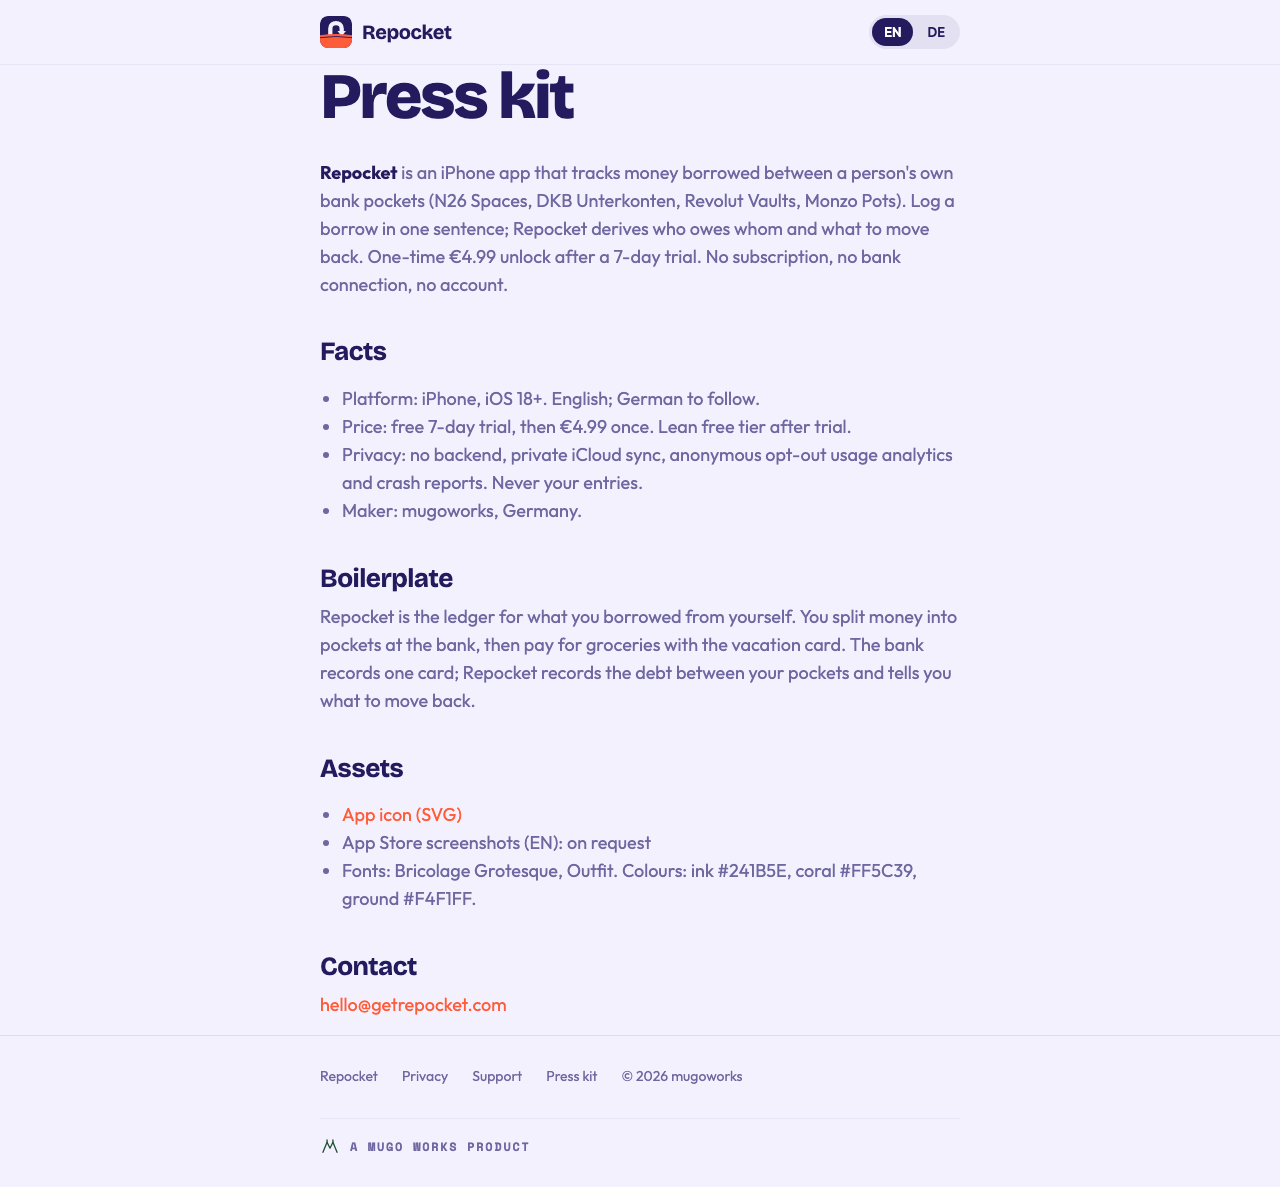
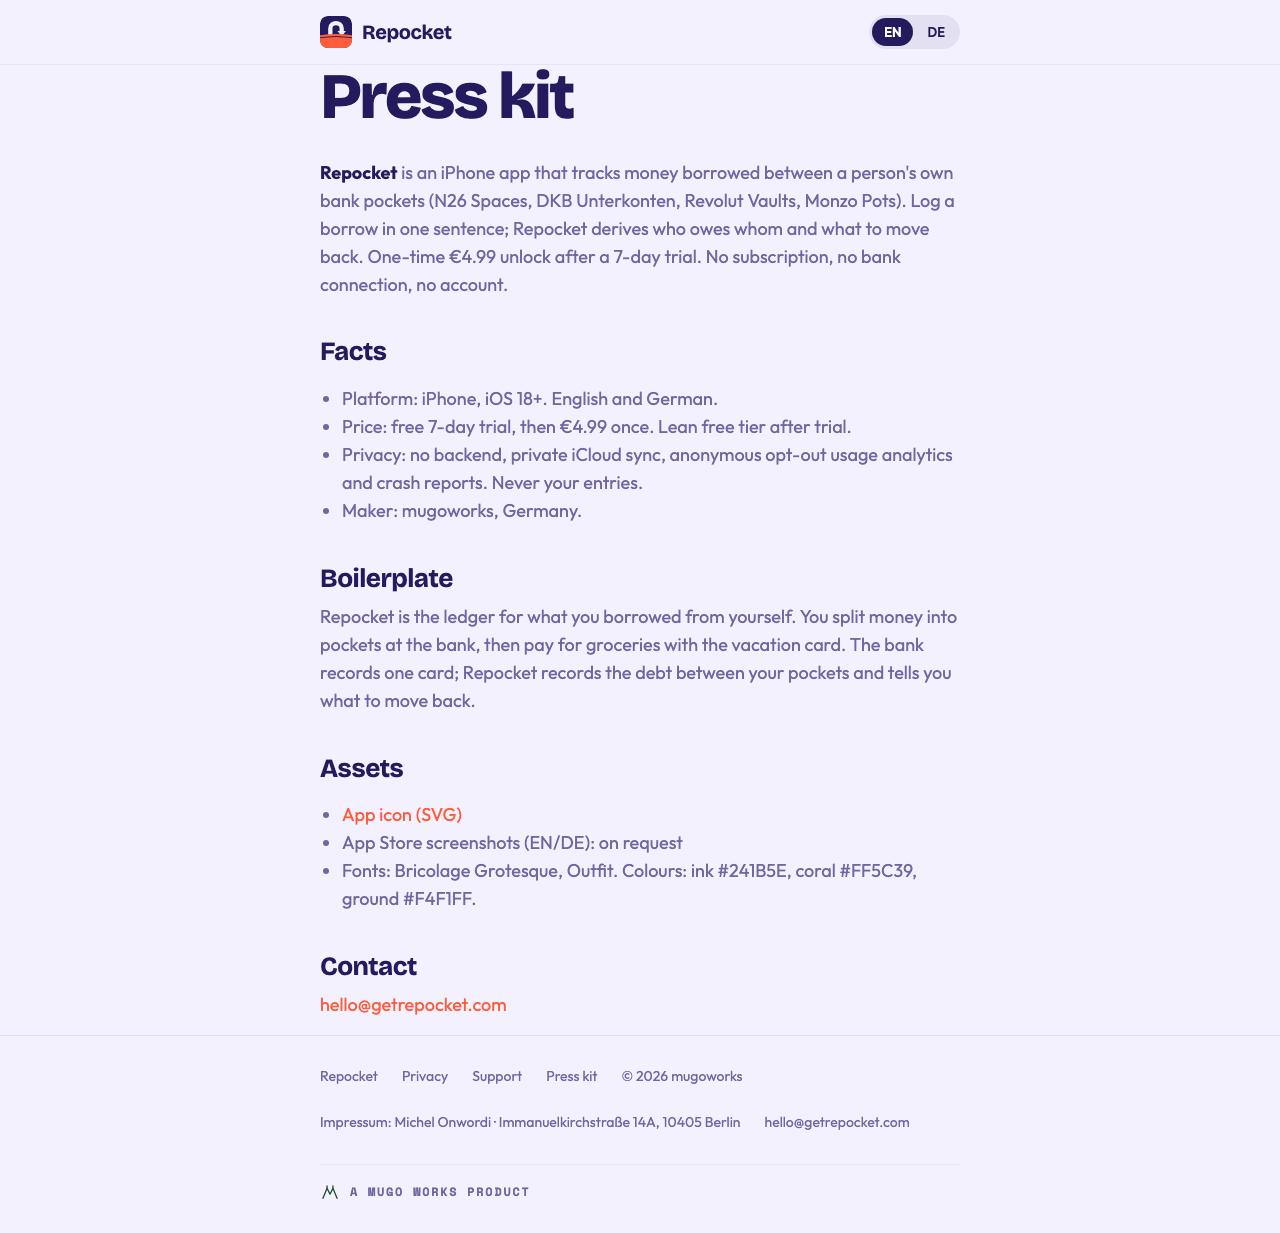
fix(site): German in-app labels, EN and DE facts, Impressum and controller [repocket-site-b42]
Bead: repocket-site-b42

Changed region(s): [[0.25, 0.2805, 0.75, 0.9351], [0.25, 0.0, 0.75, 0.2494]]

diff --git a/privacy.html b/privacy.html
@@ -21,7 +21,7 @@
 <h2>Siri, Shortcuts and widgets</h2><p>Run on-device. Spoken phrases are handled by iOS; Repocket receives only the intent and answers from local data.</p>
 <h2>Export and deletion</h2><p>Export all data as CSV or JSON from Settings. "Delete all data" removes every pocket and entry, and the app's trial and intro records, from your device and your iCloud. Only your currency choice stays.</p>
 <h2>This website</h2><p>The waitlist form on this site sends your email address, together with the page that referred you and any campaign tags in the link, to Web3Forms, a form service that forwards it to us by email. We use it only to tell you when Repocket launches and delete it on request. The site is hosted on GitHub Pages, which may log visitors' IP addresses for security. The site sets no cookies and runs no analytics.</p>
-<h2>Contact</h2><p>Questions: <a href="mailto:hello@getrepocket.com">hello@getrepocket.com</a>. mugoworks, Germany.</p></div><div data-l="de"><h1>Datenschutzerklärung</h1><p><small>Stand: September 2026</small></p>
+<h2>Contact</h2><p>Questions: <a href="mailto:hello@getrepocket.com">hello@getrepocket.com</a>. Responsible for this app and this site: Michel Onwordi (mugoworks), Immanuelkirchstraße 14A, 10405 Berlin, Germany.</p></div><div data-l="de"><h1>Datenschutzerklärung</h1><p><small>Stand: September 2026</small></p>
 <p><b>Kurzfassung.</b> Repocket hat kein Konto und keinen eigenen Server. Deine Einträge liegen auf deinem iPhone und, wenn aktiviert, in deiner privaten iCloud, wo wir sie nicht sehen können. Zwei Arten von Daten verlassen dein Gerät: eine anonyme Nutzungsanalyse, die du in den App-Einstellungen abschalten kannst, und Absturz- und Leistungsberichte, mit denen wir Fehler beheben. Keine davon enthält je deine Beträge, Taschennamen oder Notizen.</p>
 <h2>Was Repocket speichert</h2><p>Taschennamen, Einträge (Datum, Betrag, zwei Taschennamen, optionale Notiz) und ein paar App-Einstellungen: deine Währung, welche Taschen in der Gratis-Stufe aktiv sind, ob du die Einführung gesehen hast und wann die App zuletzt um eine Bewertung gebeten hat. Dazu das Datum der Erstinstallation (für die 7-tägige Testphase). Sonst nichts. Die unten beschriebenen Nutzungssignale und Absturzberichte werden getrennt gesendet und enthalten nichts davon.</p>
 <h2>Wo es gespeichert wird</h2><p>Auf deinem Gerät. Mit iCloud in deiner privaten CloudKit-Datenbank, von Apple verschlüsselt und an deinen Apple Account gebunden. mugoworks betreibt kein Backend und hat keinen Zugriff.</p>
@@ -30,8 +30,8 @@
 <h2>Absturz- und Leistungsberichte</h2><p>Repocket und seine Widgets melden Abstürze und Leistungsprobleme an <a href="https://sentry.io">Sentry</a>, einen Dienst zur Fehlerüberwachung der Functional Software, Inc., der die Daten von Repocket auf Servern in der EU verarbeitet. Jede Sitzung sendet außerdem einen kurzen Start- und Endhinweis ohne Inhalt, damit wir sehen, wie oft die App abstürzt. Ein Absturzbericht enthält die technischen Angaben, die wir zum Finden des Fehlers brauchen: den Stacktrace, dein Gerätemodell, die iOS- und App-Version und den Zeitpunkt. Bei etwa jeder zehnten Sitzung sendet die App außerdem Leistungsdaten, etwa wie lange ein Bildschirm zum Laden gebraucht hat. Die Berichte enthalten nie deine Beträge, Taschennamen oder Notizen, keine Werbe-ID und werden nicht genutzt, um ein Profil von dir zu bilden. Sentry ist so eingestellt, dass keine IP-Adressen gespeichert werden.</p>
 <h2>Käufe</h2><p>Der einmalige Kauf läuft über Apple (StoreKit). Wir erhalten keine personenbezogenen Daten aus dem Kauf.</p>
 <h2>Siri, Kurzbefehle und Widgets</h2><p>Laufen auf dem Gerät. Gesprochene Sätze verarbeitet iOS; Repocket erhält nur die Absicht und antwortet aus lokalen Daten.</p>
-<h2>Export und Löschen</h2><p>Exportiere alle Daten als CSV oder JSON unter Settings › Export. „Delete all data“ entfernt jede Tasche und jeden Eintrag sowie die Testphasen- und Einführungsdaten der App von deinem Gerät und aus deiner iCloud. Nur deine Währungswahl bleibt.</p>
+<h2>Export und Löschen</h2><p>Exportiere alle Daten als CSV oder JSON unter Einstellungen › Exportieren. „Alle Daten löschen“ entfernt jede Tasche und jeden Eintrag sowie die Testphasen- und Einführungsdaten der App von deinem Gerät und aus deiner iCloud. Nur deine Währungswahl bleibt.</p>
 <h2>Diese Website</h2><p>Das Wartelisten-Formular dieser Website sendet deine E-Mail-Adresse zusammen mit der Seite, von der du kamst, und eventuellen Kampagnen-Kennungen im Link an Web3Forms, einen Formulardienst, der sie per E-Mail an uns weiterleitet. Wir nutzen sie nur, um dir den Start von Repocket mitzuteilen, und löschen sie auf Wunsch. Die Website wird über GitHub Pages bereitgestellt, das aus Sicherheitsgründen IP-Adressen von Besuchern protokollieren kann. Die Website setzt keine Cookies und nutzt keine Analyse.</p>
-<h2>Kontakt</h2><p>Fragen: <a href="mailto:hello@getrepocket.com">hello@getrepocket.com</a>. mugoworks, Deutschland.</p></div></main>
-<footer><div class="wrap"><a href="index.html">Repocket</a><a href="privacy.html"><span data-l="en">Privacy</span><span data-l="de">Datenschutz</span></a><a href="support.html">Support</a><a href="press.html"><span data-l="en">Press kit</span><span data-l="de">Pressematerial</span></a><span>© 2026 mugoworks</span><div class="mugo-credit-row"><a class="mugo-credit" href="https://mugoworks.com"><img src="assets/mark-on-light.svg" width="20" height="20" alt="mugo works mark"><span>A MUGO WORKS PRODUCT</span></a></div></div></footer>
+<h2>Kontakt</h2><p>Fragen: <a href="mailto:hello@getrepocket.com">hello@getrepocket.com</a>. Verantwortlich für diese App und diese Website: Michel Onwordi (mugoworks), Immanuelkirchstraße 14A, 10405 Berlin, Deutschland.</p></div></main>
+<footer><div class="wrap"><a href="index.html">Repocket</a><a href="privacy.html"><span data-l="en">Privacy</span><span data-l="de">Datenschutz</span></a><a href="support.html">Support</a><a href="press.html"><span data-l="en">Press kit</span><span data-l="de">Pressematerial</span></a><span>© 2026 mugoworks</span><span>Impressum: Michel Onwordi · Immanuelkirchstraße 14A, 10405 Berlin</span><a href="mailto:hello@getrepocket.com">hello@getrepocket.com</a><div class="mugo-credit-row"><a class="mugo-credit" href="https://mugoworks.com"><img src="assets/mark-on-light.svg" width="20" height="20" alt="mugo works mark"><span>A MUGO WORKS PRODUCT</span></a></div></div></footer>
 <script>(function(){var h=document.documentElement,s=null;try{s=localStorage.getItem('rp-lang')}catch(e){}function set(l){h.setAttribute('data-lang',l);h.lang=l;document.querySelectorAll('.lang button').forEach(function(b){b.setAttribute('aria-pressed',String(b.dataset.set===l))});try{localStorage.setItem('rp-lang',l)}catch(e){}}set(s||((navigator.language||'').slice(0,2)==='de'?'de':'en'));document.querySelectorAll('.lang button').forEach(function(b){b.addEventListener('click',function(){set(b.dataset.set)})})})();</script></body></html>

diff --git a/press.html b/press.html
@@ -11,13 +11,13 @@
 .mugo-credit-row{width:100%;display:flex;padding-top:18px;margin-top:6px;border-top:1px solid rgba(36,27,94,.06)}</style></head><body>
 <nav><div class="wrap"><a class="brand" href="index.html"><img src="assets/mark.svg" alt="">Repocket</a><div class="lang" role="group" aria-label="Language"><button data-set="en" aria-pressed="true">EN</button><button data-set="de" aria-pressed="false">DE</button></div></div></nav>
 <main class="wrap"><div data-l="en"><h1>Press kit</h1><p><b>Repocket</b> is an iPhone app that tracks money borrowed between a person's own bank pockets (N26 Spaces, DKB Unterkonten, Revolut Vaults, Monzo Pots). Log a borrow in one sentence; Repocket derives who owes whom and what to move back. One-time €4.99 unlock after a 7-day trial. No subscription, no bank connection, no account.</p>
-<h2>Facts</h2><ul><li>Platform: iPhone, iOS 18+. English; German to follow.</li><li>Price: free 7-day trial, then €4.99 once. Lean free tier after trial.</li><li>Privacy: no backend, private iCloud sync, anonymous opt-out usage analytics and crash reports. Never your entries.</li><li>Maker: mugoworks, Germany.</li></ul>
+<h2>Facts</h2><ul><li>Platform: iPhone, iOS 18+. English and German.</li><li>Price: free 7-day trial, then €4.99 once. Lean free tier after trial.</li><li>Privacy: no backend, private iCloud sync, anonymous opt-out usage analytics and crash reports. Never your entries.</li><li>Maker: mugoworks, Germany.</li></ul>
 <h2>Boilerplate</h2><p>Repocket is the ledger for what you borrowed from yourself. You split money into pockets at the bank, then pay for groceries with the vacation card. The bank records one card; Repocket records the debt between your pockets and tells you what to move back.</p>
-<h2>Assets</h2><ul><li><a href="assets/mark.svg">App icon (SVG)</a></li><li>App Store screenshots (EN): on request</li><li>Fonts: Bricolage Grotesque, Outfit. Colours: ink #241B5E, coral #FF5C39, ground #F4F1FF.</li></ul>
+<h2>Assets</h2><ul><li><a href="assets/mark.svg">App icon (SVG)</a></li><li>App Store screenshots (EN/DE): on request</li><li>Fonts: Bricolage Grotesque, Outfit. Colours: ink #241B5E, coral #FF5C39, ground #F4F1FF.</li></ul>
 <h2>Contact</h2><p><a href="mailto:hello@getrepocket.com">hello@getrepocket.com</a></p></div><div data-l="de"><h1>Pressematerial</h1><p><b>Repocket</b> ist eine iPhone-App, die Geld verfolgt, das zwischen den eigenen Bank-Taschen geliehen wurde (N26 Spaces, DKB Unterkonten, Revolut Vaults, C24 Pockets). Eine Leihe in einem Satz eintragen; Repocket leitet ab, wer wem was schuldet und was zurück muss. Einmaliger Kauf für 4,99 € nach 7 Tagen Testphase. Kein Abo, keine Bankverbindung, kein Konto.</p>
-<h2>Fakten</h2><ul><li>Plattform: iPhone, iOS 18+. Englisch; Deutsch folgt.</li><li>Preis: 7 Tage gratis, dann einmal 4,99 €. Schlanke Gratis-Stufe danach.</li><li>Datenschutz: kein Backend, private iCloud-Synchronisation, anonyme, abschaltbare Nutzungsanalyse und Absturzberichte. Nie deine Einträge.</li><li>Hersteller: mugoworks, Deutschland.</li></ul>
+<h2>Fakten</h2><ul><li>Plattform: iPhone, iOS 18+. Deutsch und Englisch.</li><li>Preis: 7 Tage gratis, dann einmal 4,99 €. Schlanke Gratis-Stufe danach.</li><li>Datenschutz: kein Backend, private iCloud-Synchronisation, anonyme, abschaltbare Nutzungsanalyse und Absturzberichte. Nie deine Einträge.</li><li>Hersteller: mugoworks, Deutschland.</li></ul>
 <h2>Boilerplate</h2><p>Repocket merkt sich, was du dir selbst geliehen hast. Du teilst Geld bei der Bank in Taschen auf und bezahlst dann den Einkauf mit der Urlaubskarte. Die Bank sieht eine Karte; Repocket merkt sich die Schuld zwischen deinen Taschen und sagt dir, was zurück muss.</p>
-<h2>Material</h2><ul><li><a href="assets/mark.svg">App-Icon (SVG)</a></li><li>App-Store-Screenshots (EN): auf Anfrage</li><li>Schriften: Bricolage Grotesque, Outfit. Farben: Tinte #241B5E, Koralle #FF5C39, Grund #F4F1FF.</li></ul>
+<h2>Material</h2><ul><li><a href="assets/mark.svg">App-Icon (SVG)</a></li><li>App-Store-Screenshots (DE/EN): auf Anfrage</li><li>Schriften: Bricolage Grotesque, Outfit. Farben: Tinte #241B5E, Koralle #FF5C39, Grund #F4F1FF.</li></ul>
 <h2>Kontakt</h2><p><a href="mailto:hello@getrepocket.com">hello@getrepocket.com</a></p></div></main>
-<footer><div class="wrap"><a href="index.html">Repocket</a><a href="privacy.html"><span data-l="en">Privacy</span><span data-l="de">Datenschutz</span></a><a href="support.html">Support</a><a href="press.html"><span data-l="en">Press kit</span><span data-l="de">Pressematerial</span></a><span>© 2026 mugoworks</span><div class="mugo-credit-row"><a class="mugo-credit" href="https://mugoworks.com"><img src="assets/mark-on-light.svg" width="20" height="20" alt="mugo works mark"><span>A MUGO WORKS PRODUCT</span></a></div></div></footer>
+<footer><div class="wrap"><a href="index.html">Repocket</a><a href="privacy.html"><span data-l="en">Privacy</span><span data-l="de">Datenschutz</span></a><a href="support.html">Support</a><a href="press.html"><span data-l="en">Press kit</span><span data-l="de">Pressematerial</span></a><span>© 2026 mugoworks</span><span>Impressum: Michel Onwordi · Immanuelkirchstraße 14A, 10405 Berlin</span><a href="mailto:hello@getrepocket.com">hello@getrepocket.com</a><div class="mugo-credit-row"><a class="mugo-credit" href="https://mugoworks.com"><img src="assets/mark-on-light.svg" width="20" height="20" alt="mugo works mark"><span>A MUGO WORKS PRODUCT</span></a></div></div></footer>
 <script>(function(){var h=document.documentElement,s=null;try{s=localStorage.getItem('rp-lang')}catch(e){}function set(l){h.setAttribute('data-lang',l);h.lang=l;document.querySelectorAll('.lang button').forEach(function(b){b.setAttribute('aria-pressed',String(b.dataset.set===l))});try{localStorage.setItem('rp-lang',l)}catch(e){}}set(s||((navigator.language||'').slice(0,2)==='de'?'de':'en'));document.querySelectorAll('.lang button').forEach(function(b){b.addEventListener('click',function(){set(b.dataset.set)})})})();</script></body></html>

diff --git a/support.html b/support.html
@@ -20,10 +20,10 @@
 <h2>Report a bug</h2><p>Include your iOS version, what you tapped, and what you expected. Screenshots help. Never send bank details; Repocket has none and needs none.</p></div><div data-l="de"><h1>Support</h1><p>Repocket wird von <a href="https://mugoworks.com">mugoworks</a> entwickelt. E-Mail funktioniert am besten: <a href="mailto:hello@getrepocket.com">hello@getrepocket.com</a>. Antwort in der Regel innerhalb von zwei Werktagen.</p>
 <h2>Häufige Fragen</h2>
 <div class="card"><b>Eine Tasche ist schreibgeschützt.</b><p>Nach der Testphase behält die Gratis-Stufe deine drei zuletzt genutzten Taschen aktiv, die übrigen sind schreibgeschützt. Archiviere eine aktive Tasche, die du nicht mehr brauchst (sobald ihre Schulden ausgeglichen sind), dann rückt die zuletzt genutzte schreibgeschützte Tasche nach, oder schalte einmalig für 4,99 € frei.</p></div>
-<div class="card"><b>Das Widget zeigt „Unlock in Repocket“.</b><p>Widgets gehören zum einmaligen Kauf. Tippe in der App auf dem Owed-Bildschirm auf Stats (das Balkendiagramm mit Schloss), um freizuschalten.</p></div>
-<div class="card"><b>Ich habe auf einem anderen iPhone gekauft.</b><p>Im Freischalten-Bildschirm auf „Restore purchase“ tippen. Der Kauf hängt an deinem Apple Account.</p></div>
+<div class="card"><b>Das Widget zeigt „In Repocket freischalten“.</b><p>Widgets gehören zum einmaligen Kauf. Tippe in der App auf dem Geschuldet-Bildschirm auf Statistik (das Balkendiagramm mit Schloss), um freizuschalten.</p></div>
+<div class="card"><b>Ich habe auf einem anderen iPhone gekauft.</b><p>Im Freischalten-Bildschirm auf „Kauf wiederherstellen“ tippen. Der Kauf hängt an deinem Apple Account.</p></div>
 <div class="card"><b>Einträge fehlen auf meinem zweiten Gerät.</b><p>Prüfe, ob iCloud für Repocket aktiv ist: iOS-Einstellungen › dein Name › iCloud. Die Synchronisation dauert im WLAN meist unter einer Minute.</p></div>
-<div class="card"><b>Ich will meine Daten raus.</b><p>Settings › Export › CSV oder JSON. Die Datei enthält jeden Eintrag und jede Tasche.</p></div>
+<div class="card"><b>Ich will meine Daten raus.</b><p>Einstellungen › Exportieren › CSV oder JSON. Die Datei enthält jeden Eintrag und jede Tasche.</p></div>
 <h2>Fehler melden</h2><p>Nenne iOS-Version, was du getippt hast und was du erwartet hast. Screenshots helfen. Schick nie Bankdaten; Repocket hat keine und braucht keine.</p></div></main>
-<footer><div class="wrap"><a href="index.html">Repocket</a><a href="privacy.html"><span data-l="en">Privacy</span><span data-l="de">Datenschutz</span></a><a href="support.html">Support</a><a href="press.html"><span data-l="en">Press kit</span><span data-l="de">Pressematerial</span></a><span>© 2026 mugoworks</span><div class="mugo-credit-row"><a class="mugo-credit" href="https://mugoworks.com"><img src="assets/mark-on-light.svg" width="20" height="20" alt="mugo works mark"><span>A MUGO WORKS PRODUCT</span></a></div></div></footer>
+<footer><div class="wrap"><a href="index.html">Repocket</a><a href="privacy.html"><span data-l="en">Privacy</span><span data-l="de">Datenschutz</span></a><a href="support.html">Support</a><a href="press.html"><span data-l="en">Press kit</span><span data-l="de">Pressematerial</span></a><span>© 2026 mugoworks</span><span>Impressum: Michel Onwordi · Immanuelkirchstraße 14A, 10405 Berlin</span><a href="mailto:hello@getrepocket.com">hello@getrepocket.com</a><div class="mugo-credit-row"><a class="mugo-credit" href="https://mugoworks.com"><img src="assets/mark-on-light.svg" width="20" height="20" alt="mugo works mark"><span>A MUGO WORKS PRODUCT</span></a></div></div></footer>
 <script>(function(){var h=document.documentElement,s=null;try{s=localStorage.getItem('rp-lang')}catch(e){}function set(l){h.setAttribute('data-lang',l);h.lang=l;document.querySelectorAll('.lang button').forEach(function(b){b.setAttribute('aria-pressed',String(b.dataset.set===l))});try{localStorage.setItem('rp-lang',l)}catch(e){}}set(s||((navigator.language||'').slice(0,2)==='de'?'de':'en'));document.querySelectorAll('.lang button').forEach(function(b){b.addEventListener('click',function(){set(b.dataset.set)})})})();</script></body></html>

diff --git a/index.html b/index.html
@@ -261,7 +261,7 @@ footer{padding:40px 0 60px;border-top:1px solid rgba(36,27,94,.1);font-size:14px
  <a href="privacy.html"><span data-l="en">Privacy</span><span data-l="de">Datenschutz</span></a>
  <a href="support.html"><span data-l="en">Support</span><span data-l="de">Support</span></a>
  <a href="press.html"><span data-l="en">Press kit</span><span data-l="de">Pressematerial</span></a>
- <span>© 2026 mugoworks</span>
+ <span>© 2026 mugoworks</span><span>Impressum: Michel Onwordi · Immanuelkirchstraße 14A, 10405 Berlin</span><a href="mailto:hello@getrepocket.com">hello@getrepocket.com</a>
  <div class="mugo-credit-row">
   <a class="mugo-credit" href="https://mugoworks.com"><img src="assets/mark-on-light.svg" width="20" height="20" alt="mugo works mark"><span>A MUGO WORKS PRODUCT</span></a>
  </div>
